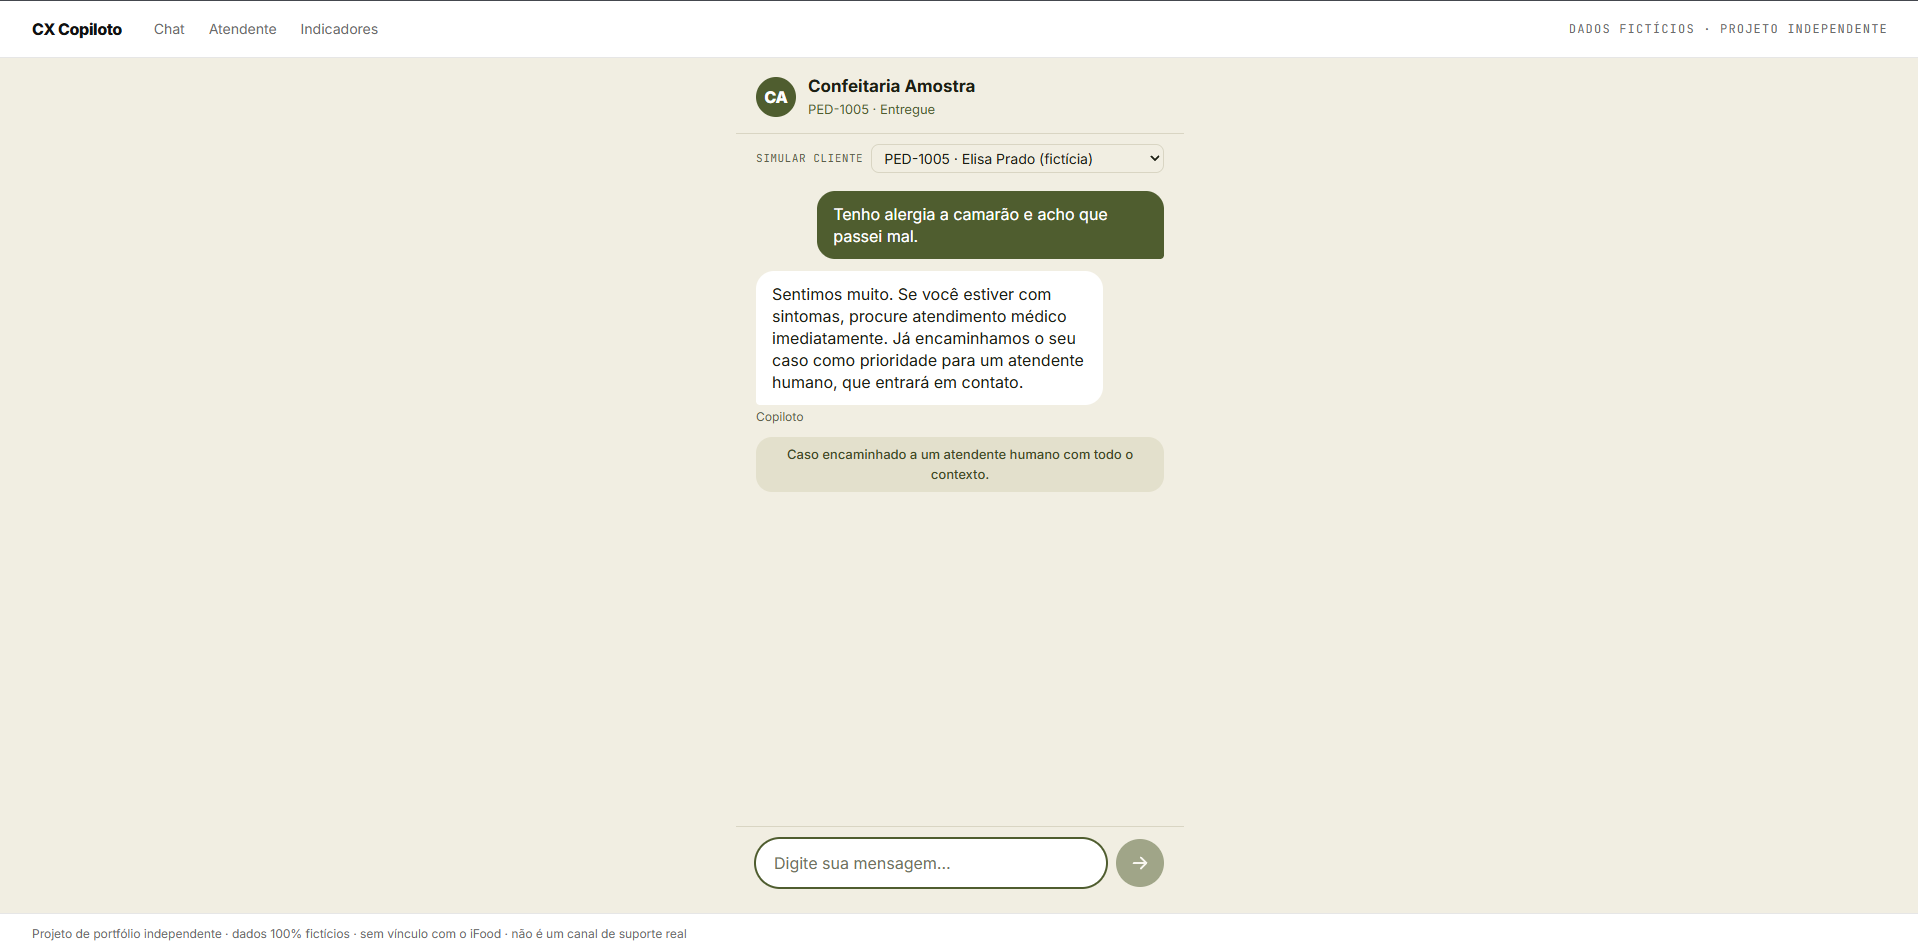
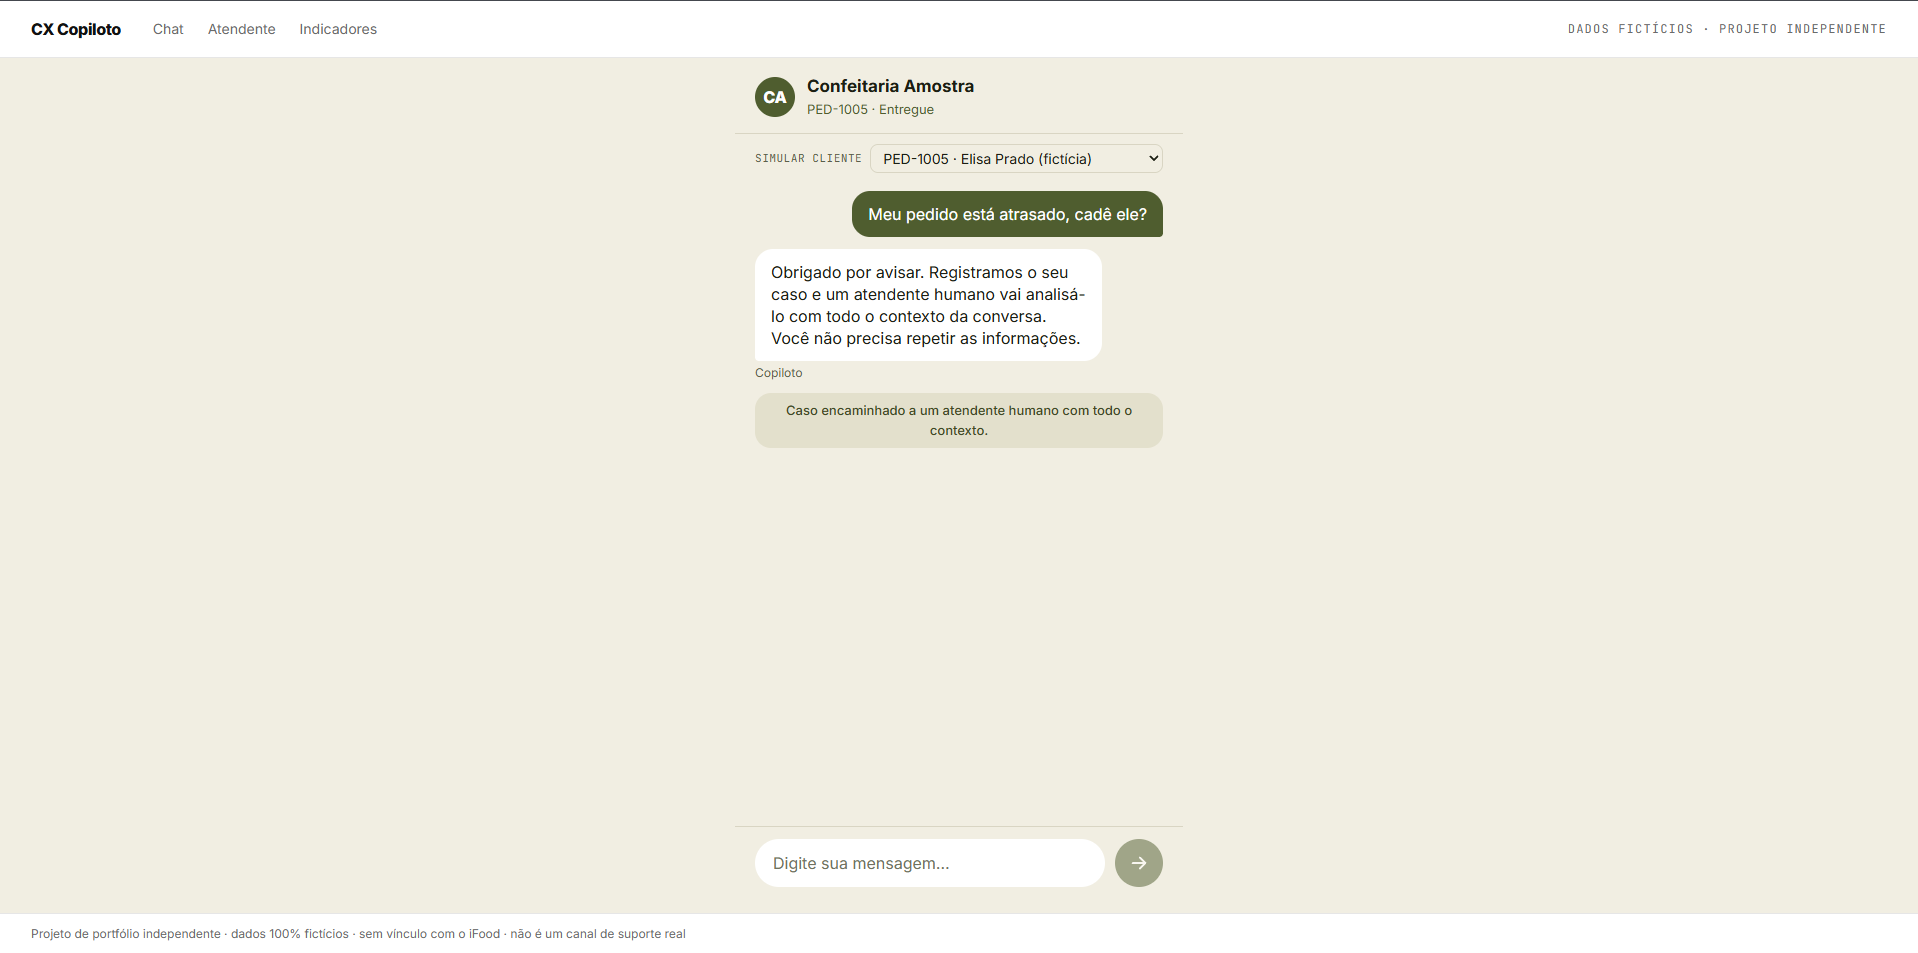
README: atualiza capturas de tela e legendas da seção Visual

diff --git a/README.md b/README.md
@@ -14,15 +14,15 @@ Os 5 pedidos de teste cobrem os cenários: **PED-1001** atraso, **PED-1002** ree
 
 ## Visual
 
-**Chat do cliente.** Caso de alergia: a IA não tenta resolver, orienta a buscar atendimento médico e encaminha a um humano com prioridade.
+**Chat do cliente.** A cliente reclama de atraso, mas o pedido consta como entregue. Os dados divergem, então a IA não afirma nada e encaminha a um humano em vez de arriscar uma resposta errada.
 
 ![Chat do cliente encaminhando um caso de alergia](docs/chat.png)
 
-**Painel do atendente.** Fila por prioridade, motivo do encaminhamento, dados do pedido e conversa completa, com assumir e encerrar.
+**Painel do atendente.** O mesmo caso chega à fila com o motivo do encaminhamento, os dados do pedido e a conversa completa. O atendente assume e encerra com uma nota.
 
 ![Painel do atendente com fila e contexto do chamado](docs/painel.png)
 
-**Indicadores.** Conversas, taxa de resolução pela IA, tempos de atendimento e contatos por intenção.
+**Indicadores.** Conversas, taxa de resolução pela IA, tempos de atendimento, latência do LLM e contatos por intenção. A captura vem de uma sessão de teste com uma única conversa.
 
 ![Painel de indicadores](docs/indicadores.png)
 
